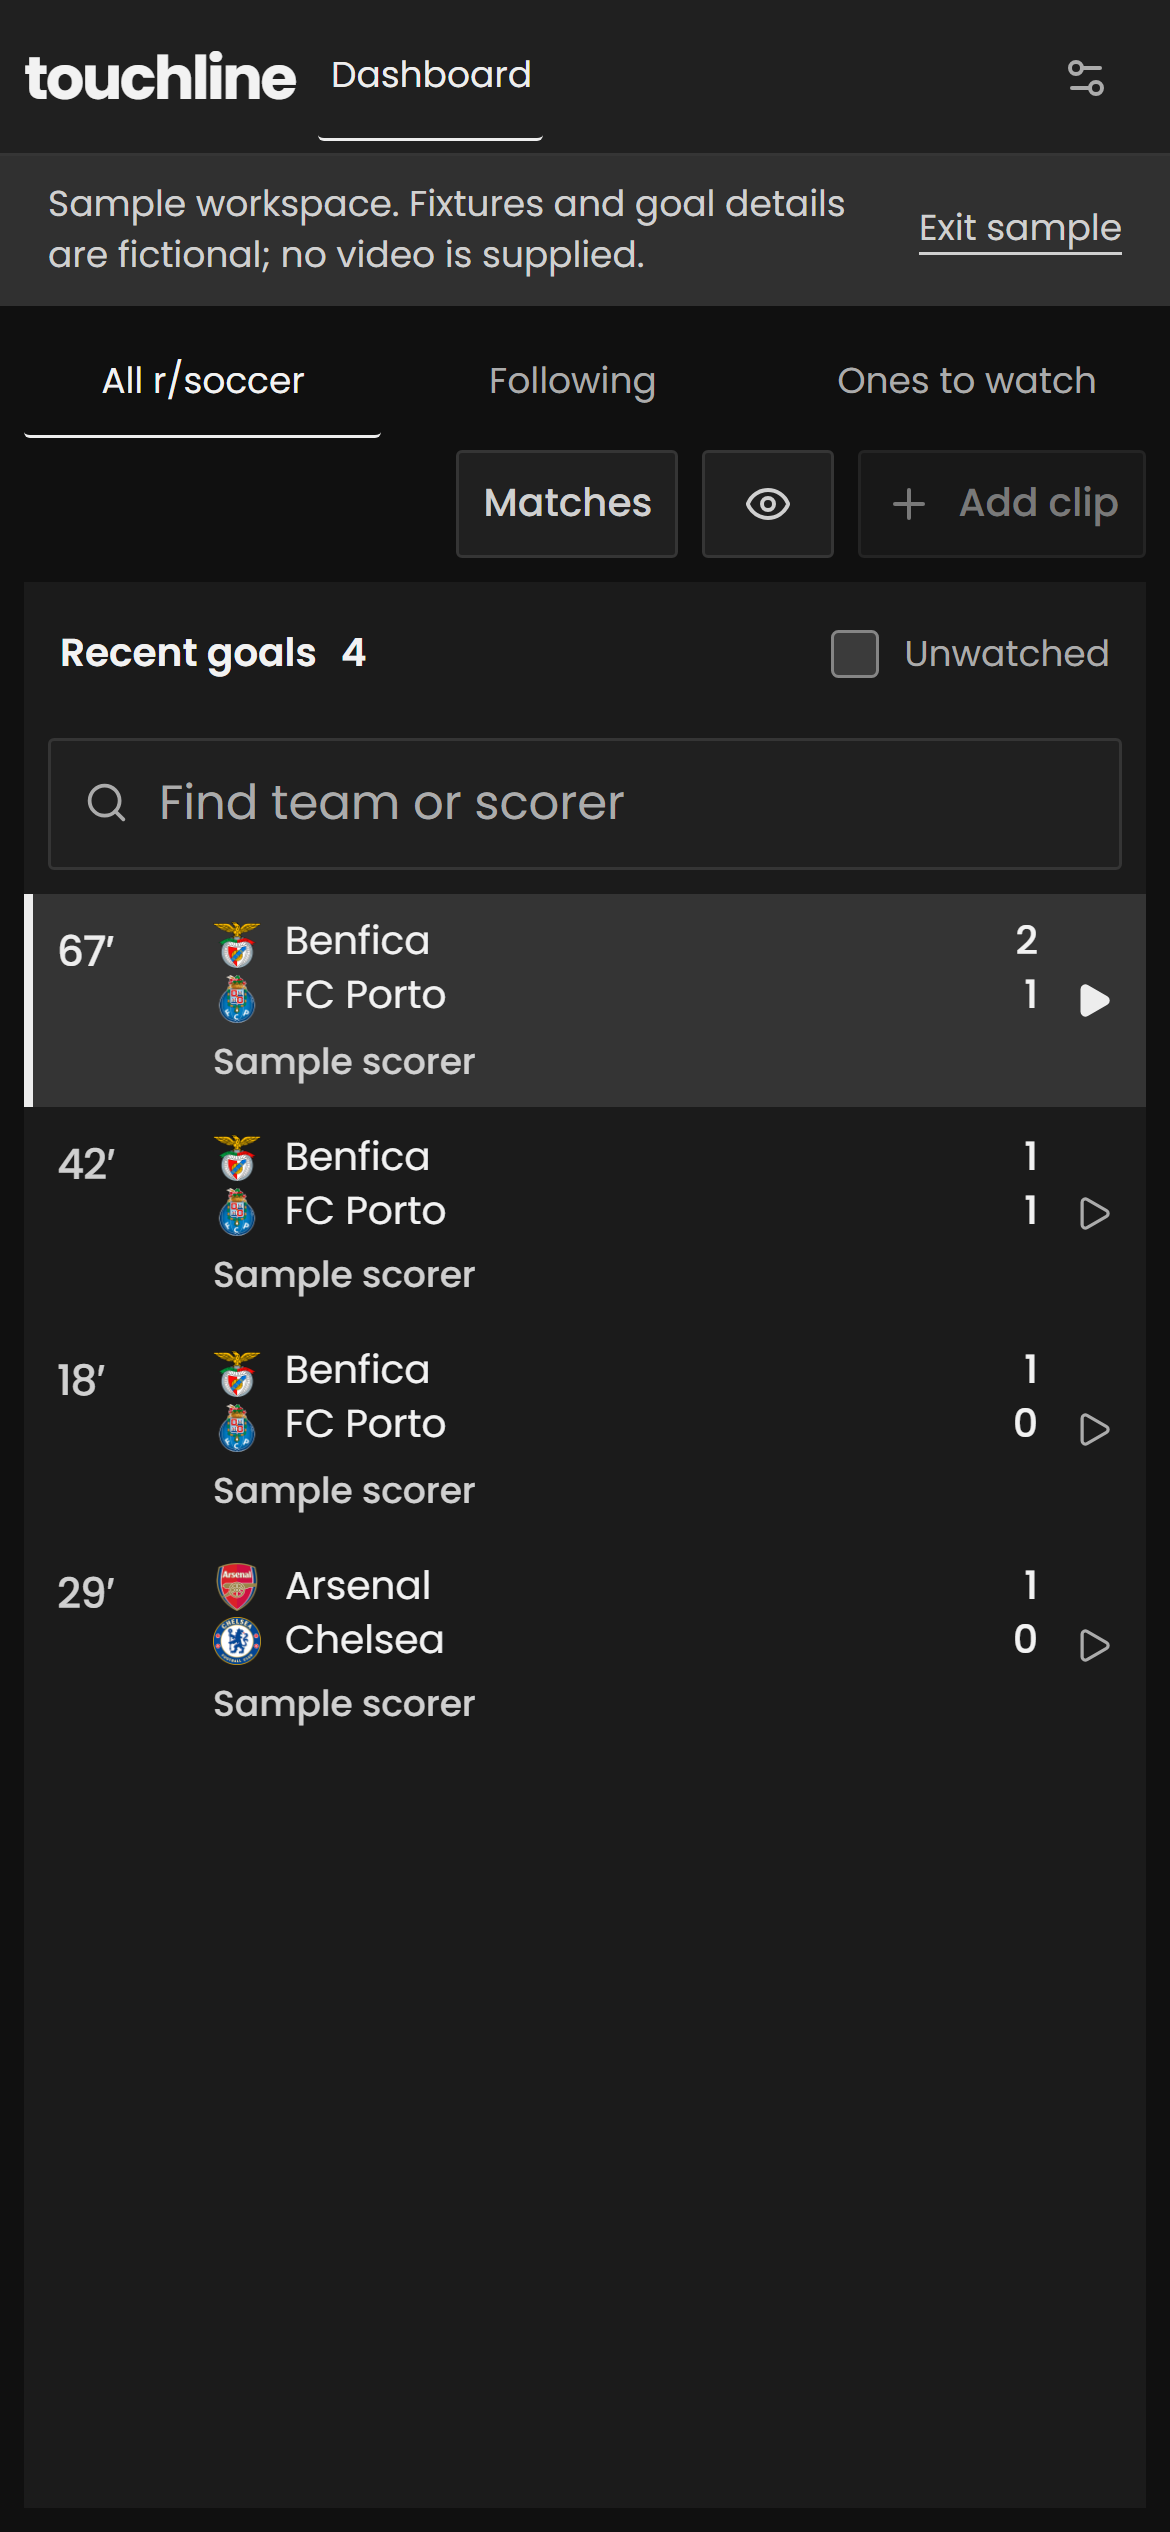
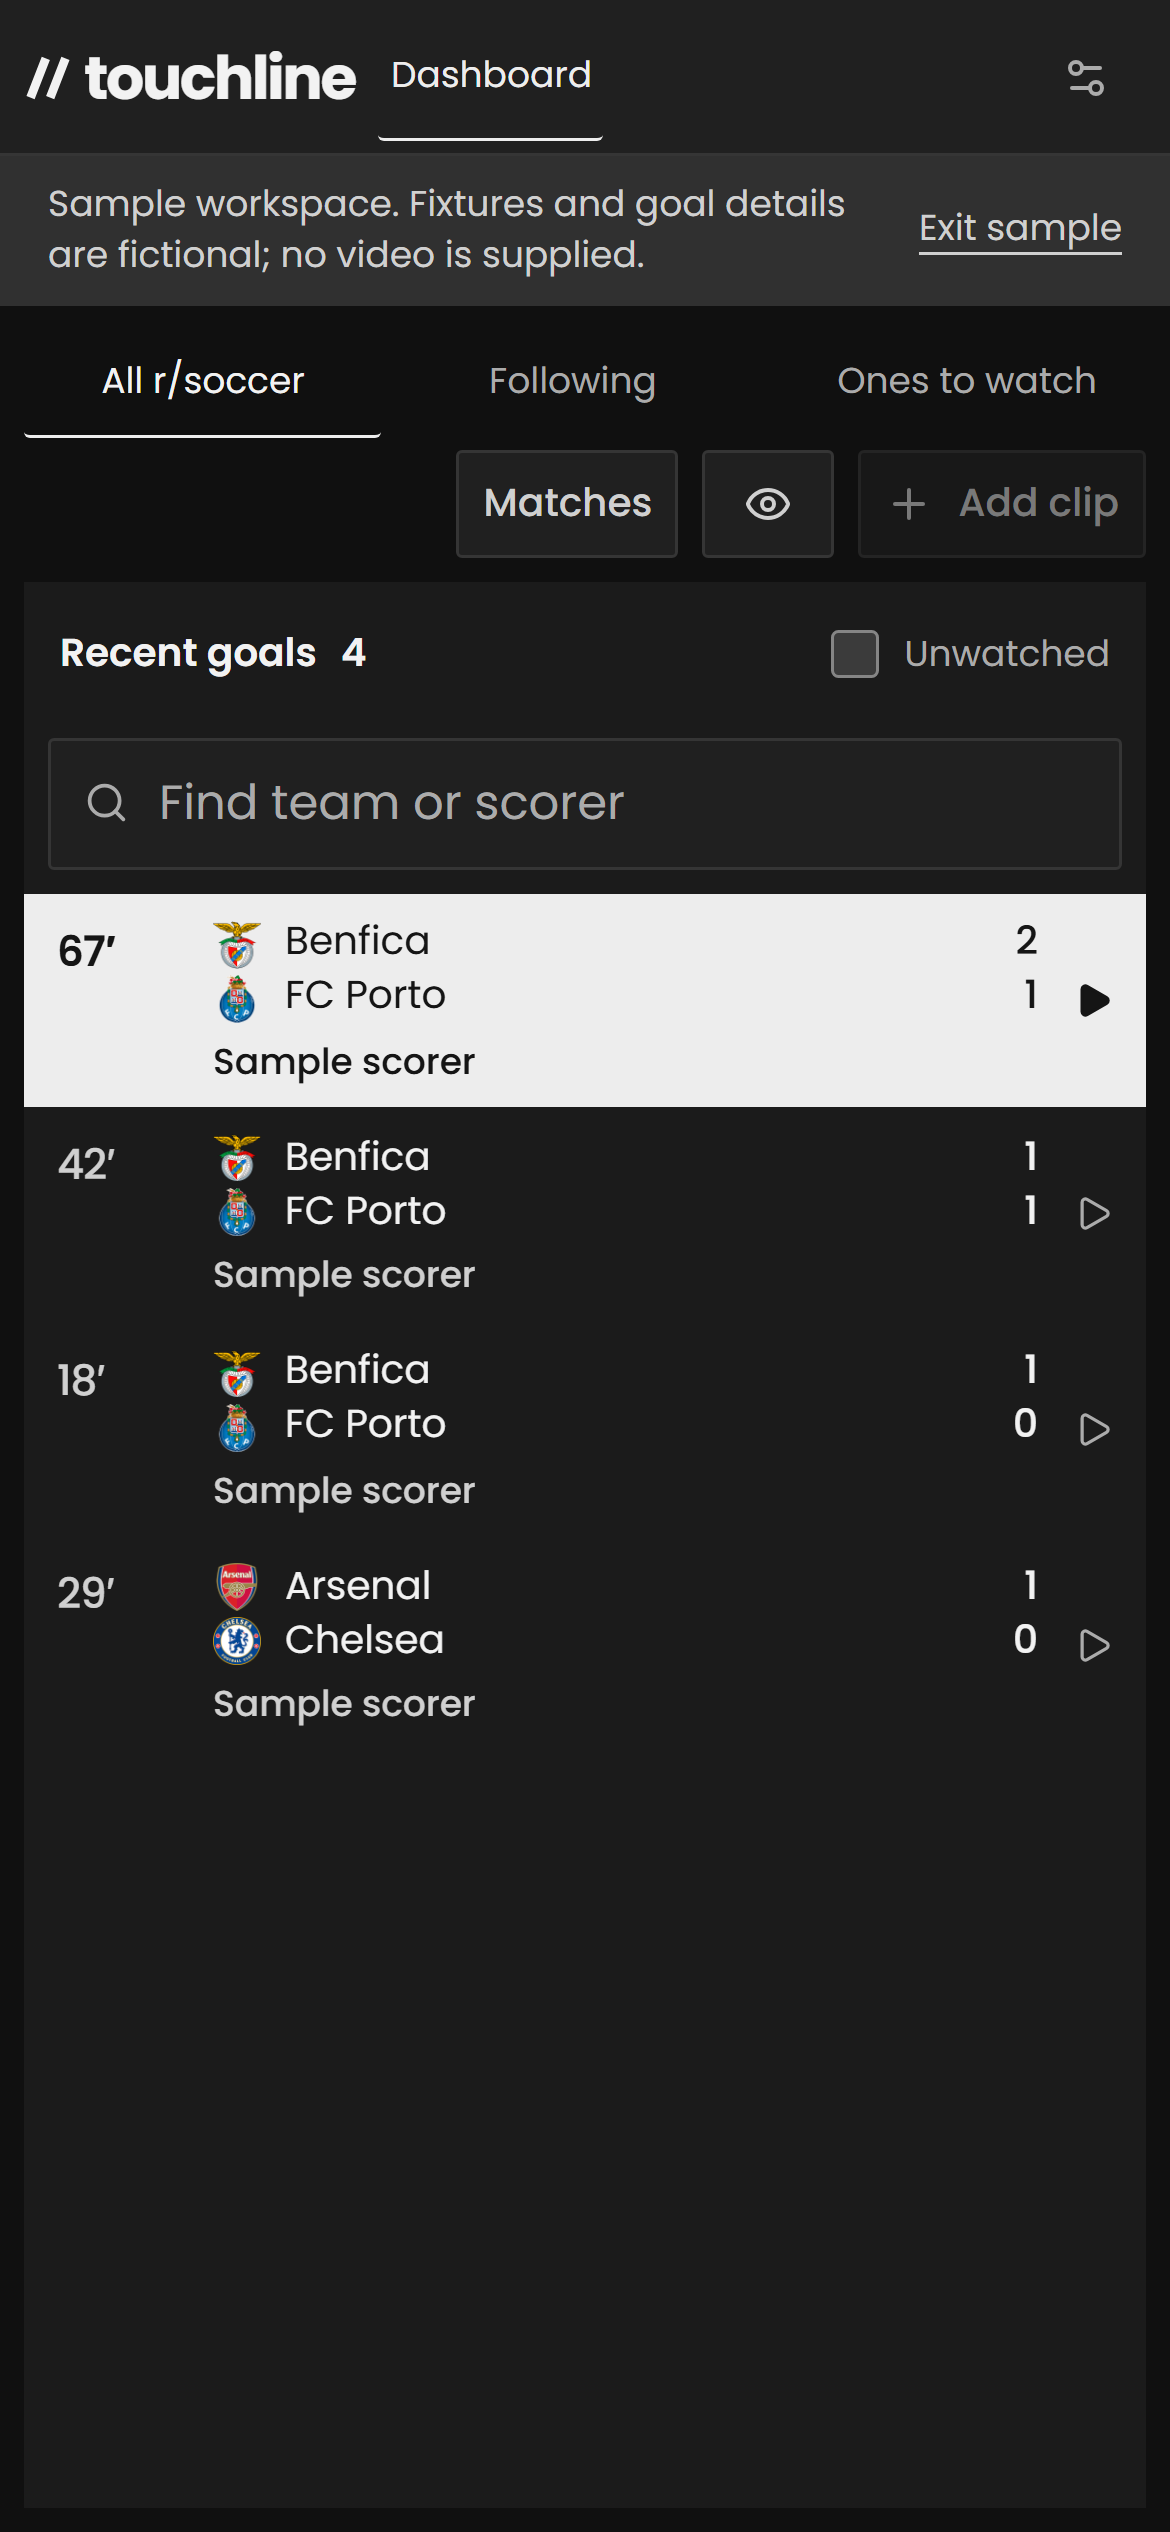
Add broadcast score signature and expressive goal selection

Changed region(s): [[0.0308, 0.3432, 0.9846, 0.4368], [0.0308, 0.0, 0.3077, 0.0624], [0.3385, 0.0, 0.4308, 0.0312]]

diff --git a/web/src/style.css b/web/src/style.css
@@ -5,6 +5,7 @@
 /* Hallmark · reworded "Keep watching in the meantime" to "Your clip links" · 19 and 69 replace vague filler with the actual task. */
 /* Hallmark · dismissed 28a · The lazy image is a 22px team crest, not the LCP; the goal video owns the stage and preloads its media. */
 /* Hallmark · answered F25 · The match rail is reachable through the Matches drawer on phones, and selecting a goal opens its player with Back to goals. The subtitle repeats the screen purpose. */
+/* Hallmark · dismissed 40 · The selected row explicitly sets dark text on its light background, including crest fallbacks. Both desktop and phone axe contrast checks pass; the static scan does not resolve the descendant overrides. */
 @import "./tokens.css";
 @import "./base.css";
 * {
@@ -2803,4 +2804,92 @@ summary:focus-visible {
   width: 100%;
   max-width: 1040px;
   align-self: center;
+}
+
+/* Broadcast signature: a twin-cut masthead and an unmistakable on-air score. */
+.topbar .brand {
+  gap: var(--space-xs);
+  letter-spacing: -0.8px;
+}
+.topbar .brand > .brand-mark {
+  display: block;
+  flex: none;
+}
+.scoreboard-result {
+  background: var(--color-accent);
+  color: var(--color-accent-ink);
+  min-width: 88px;
+  padding: var(--space-2xs) var(--space-sm);
+  font-weight: 600;
+  align-self: center;
+}
+.scoreboard-result > span {
+  color: var(--color-surface-edge);
+}
+.goal-row.selected {
+  background: var(--color-accent);
+  color: var(--color-accent-ink);
+  border-left-color: var(--color-accent);
+}
+.goal-row.selected .goal-team,
+.goal-row.selected .goal-copy b,
+.goal-row.selected .goal-copy strong,
+.goal-row.selected .goal-minute,
+.goal-row.selected .queue-play {
+  color: var(--color-accent-ink);
+}
+.goal-row.selected small,
+.goal-row.selected .watch-tag {
+  color: var(--color-surface-edge);
+}
+.goal-row.selected .goal-minute {
+  font-weight: 600;
+}
+.goal-row.selected:hover {
+  background: var(--color-focus);
+}
+.goal-row.selected:focus-visible {
+  outline-color: var(--color-accent-ink);
+}
+.clip-details .scorer-heading {
+  font-size: clamp(24px, 2.2vw, 32px);
+  font-weight: 600;
+  letter-spacing: -0.8px;
+  animation: scorer-arrives 180ms var(--ease-out);
+}
+@keyframes scorer-arrives {
+  from {
+    opacity: 0.35;
+    transform: translateY(4px);
+  }
+  to {
+    opacity: 1;
+    transform: translateY(0);
+  }
+}
+@media (prefers-reduced-motion: reduce) {
+  .clip-details .scorer-heading {
+    animation: none;
+  }
+}
+@media (max-width: 760px) {
+  .topbar .brand > .brand-mark {
+    width: 16px;
+    height: 20px;
+  }
+  .topbar .brand {
+    gap: var(--space-2xs);
+  }
+  .scoreboard-result {
+    min-width: 68px;
+    padding-inline: var(--space-xs);
+  }
+  .clip-details .scorer-heading {
+    font-size: 26px;
+  }
+}
+
+.goal-row.selected .crest-fallback {
+  color: var(--color-accent-ink);
+  border-color: var(--color-surface-edge);
 }

diff --git a/web/src/App.tsx b/web/src/App.tsx
@@ -577,7 +577,20 @@ export default function App() {
       </a>
       <header className="topbar">
         <a className="brand" href="/" aria-label="Touchline home">
-          <GoalIcon size={27} strokeWidth={1.6} />
+          <svg
+            className="brand-mark"
+            width="22"
+            height="24"
+            viewBox="0 0 22 24"
+            fill="none"
+            aria-hidden="true"
+          >
+            <path
+              d="M3 21 10 3M12 21 19 3"
+              stroke="currentColor"
+              strokeWidth="4"
+            />
+          </svg>
           <span>touchline</span>
         </a>
         <nav aria-label="Main navigation">
@@ -1339,7 +1352,10 @@ export default function App() {
                             </div>
                             <div className="clip-details">
                               <div>
-                                <h2>
+                                <h2
+                                  className="scorer-heading"
+                                  key={selected.id}
+                                >
                                   {hideScore
                                     ? "Goal details hidden"
                                     : selected.scorer}
